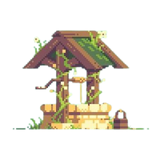
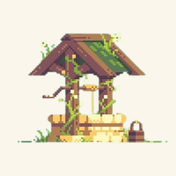
tried to fix well

Changed region(s): [[0.0625, 0.1875, 0.9688, 0.8125]]

diff --git a/display.js b/display.js
@@ -66,7 +66,7 @@ let hopeMature;
 
 let well; // sprite for the well
 let waterDrops = 0; // water inventory
-let wellWater = 3; // amount of water in the well
+let wellWater = 0; // amount of water in the well
 const wellCapacity = 3; // the maximum amount of water the well can hold
 let lastWellRefillTime = 0; // time when the well was last refilled
 const wellRefillInterval = 10000; // how often the well refills (in milliseconds)
@@ -419,7 +419,7 @@ function showGameScreen() {
   plot.pos = { x: width / 2, y: height / 2 + 80 };
   directions.pos = { x: width - 90, y: 600 };
 
-  well.pos = { x: 80, y: height / 2 + 60};
+  well.pos = { x: 80, y: height / 2 + 30 };
 
   // Shop icon configurations
   shopIcon.img = loadImage('icons/shop.png');
